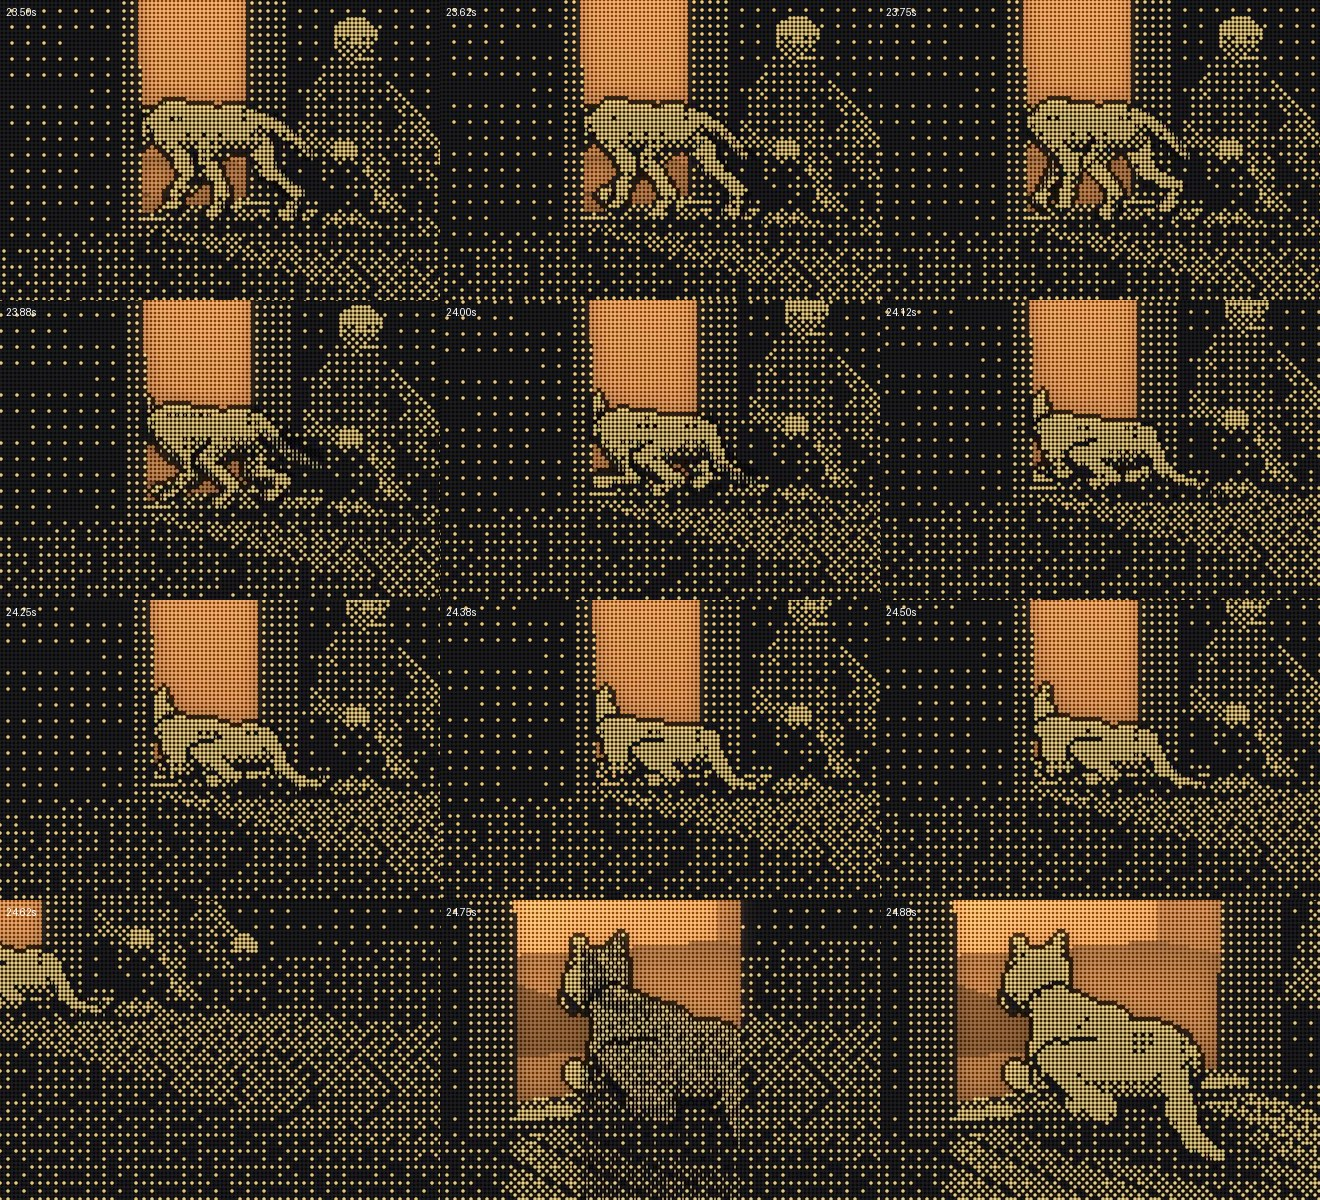
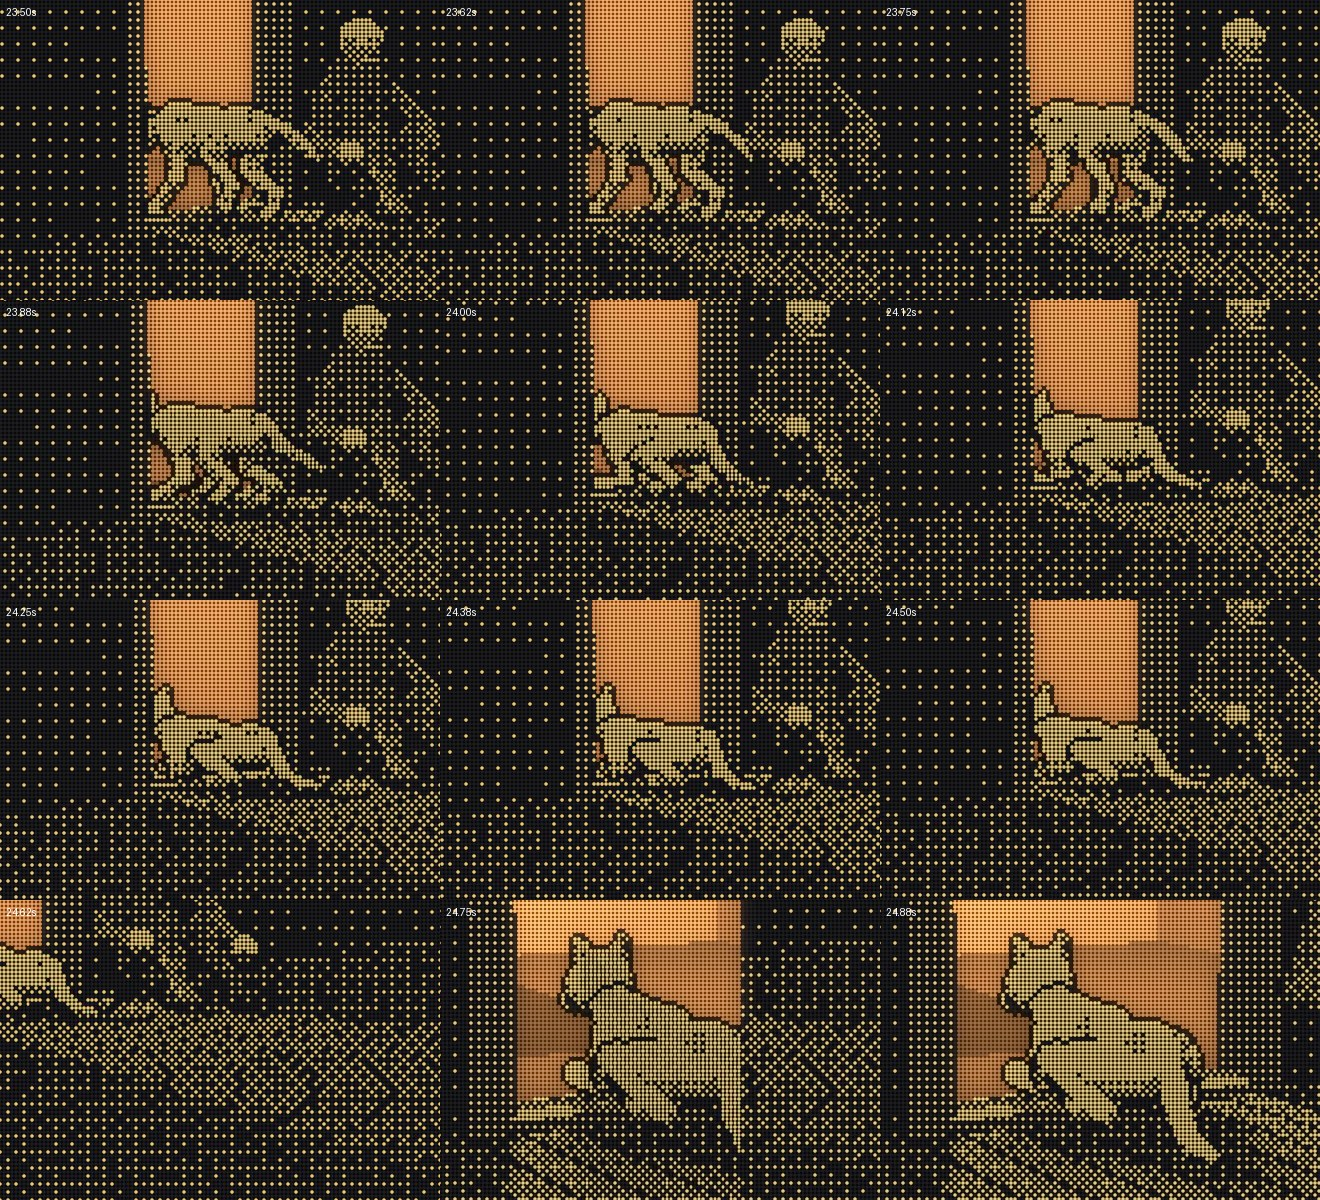
PAE-02: cohort 6 swarm work in progress (checkpoint)
Claude-Session: https://claude.ai/code/session_01NnogCfjFXeRgpEGgKH3eVT

diff --git a/paeleo/handmade/48-state-machines/method.md b/paeleo/handmade/48-state-machines/method.md
@@ -54,7 +54,16 @@ were needed, not parameter tweaks: the arrival guard (approach used to give up 2
 only) from *unease* (a standing figure) so that backing stops when the calling stops.
 
 Machine decisions against the score (first frame in the new state, s): see `trace.json → machine_onsets`
-MACHINE_TABLE
+| choice | score | machine | dt |
+|---|---|---|---|
+| watch -> retreat | 1.0 | 1.125 | +0.125 |
+| retreat -> watch | 2.333 | 2.5 | +0.167 |
+| watch -> refuse | 3.417 | 3.5417 | +0.125 |
+| refuse -> watch | 7.458 | 7.5 | +0.042 |
+| watch -> approach | 14.708 | 14.6667 | -0.041 |
+| approach -> lie_down | 23.792 | 23.7917 | -0.000 |
+| lie_down.rest -> lie_down.look_in | 26.4 | 26.5 | +0.100 |
+| lie_down.look_in -> lie_down.rest | 28.1 | 28.0833 | -0.017 |
 
 ## The dog (build/render.py)
 
@@ -72,11 +81,22 @@ lain down, then the closer shot of the sill.
 
 ## Measured (from the render, trace.json → measured_onsets)
 
-MEASURED_TABLE
+| choice (measured on the board) | score | measured | dt |
+|---|---|---|---|
+| retreat (backs away) | 1.0 | 1.167 | +0.167 |
+| retreat -> watch (stops backing) | 2.333 | 2.375 | +0.042 |
+| refuse (head swings away) | 3.417 | 3.542 | +0.125 |
+| refuse -> watch (head comes round) | 7.458 | 7.5 | +0.042 |
+| approach (comes) | 14.708 | 14.625 | -0.083 |
+| lie_down (lowers onto the sill) | 23.792 | 23.917 | +0.125 |
+| looks in (head lifts into the doorway) | 26.4 | 26.375 | -0.025 |
+| settles (chin back down) | 28.1 | 28.125 | +0.025 |
 
-Invariants (tools/paeleo/check_handmade.py): INVARIANTS
+How measured: backing/coming = velocity of the torso cells cast onto the path; head swings = head-cell centroid moving > 6–8 px against the body cells; lying = height of the dog cells dropping 7 %. Smoothing (±2 frames) can pull an onset a frame or two early (approach −0.08, look-in −0.03 s).
 
-Sound (cache/sound_levels.json, measured on the synthesized stems): SOUND
+Invariants (tools/paeleo/check_handmade.py): ALL OK — I1 all six within 0.17 s (state = the machine's); I2 min x 0.6175, end 0.6175; I3 r = 0.998 on x_world_measured; I4 back turned in 98 % of refusal frames (facing measured from the cells).
+
+Sound (cache/sound_levels.json, measured on the synthesized stems): calls -16.5 dBFS RMS, soft phrases -28.3 (11.8 dB under the calls), room tone -47.6 (19.3 dB under the soft voice); peak 0.85.
 
 ## Protected conditions
 
@@ -93,8 +113,10 @@ looking in was a lift of the head toward the light. Each was repaired at its cau
 
 ## What is weak, unknown, not done
 
-- Scale: in the wide shot the dog is ~200 px long; the turn passes through a front view at about 3.9 s and 8.3 s that is
-  compact (face, chest, forelegs).
+- Scale: in the wide shot the dog is ~200 px long. The refusal turn passes through a rear view (rump, back of the head) at
+  3.6–3.8 s; the turn back passes a front view at 8.1–8.4 s, and while it rises (7.9–8.2 s) the legs unfold during the
+  first part of the turn and read busy.
+- Film checked on frames extracted from film.mp4 (proof/film_turn1.jpg, film_turn2.jpg, film_look.jpg, film_lie.jpg, film_wide.jpg).
 - The person is a secondary, simplified figure; the seated pose reads as a figure on the boards with bright hands, little more.
 - Voices are formant-synthesized: intelligible as prosody more than as words; the captions carry the words.
 - The board dither shimmers where things move (that is the material, but it costs detail).
